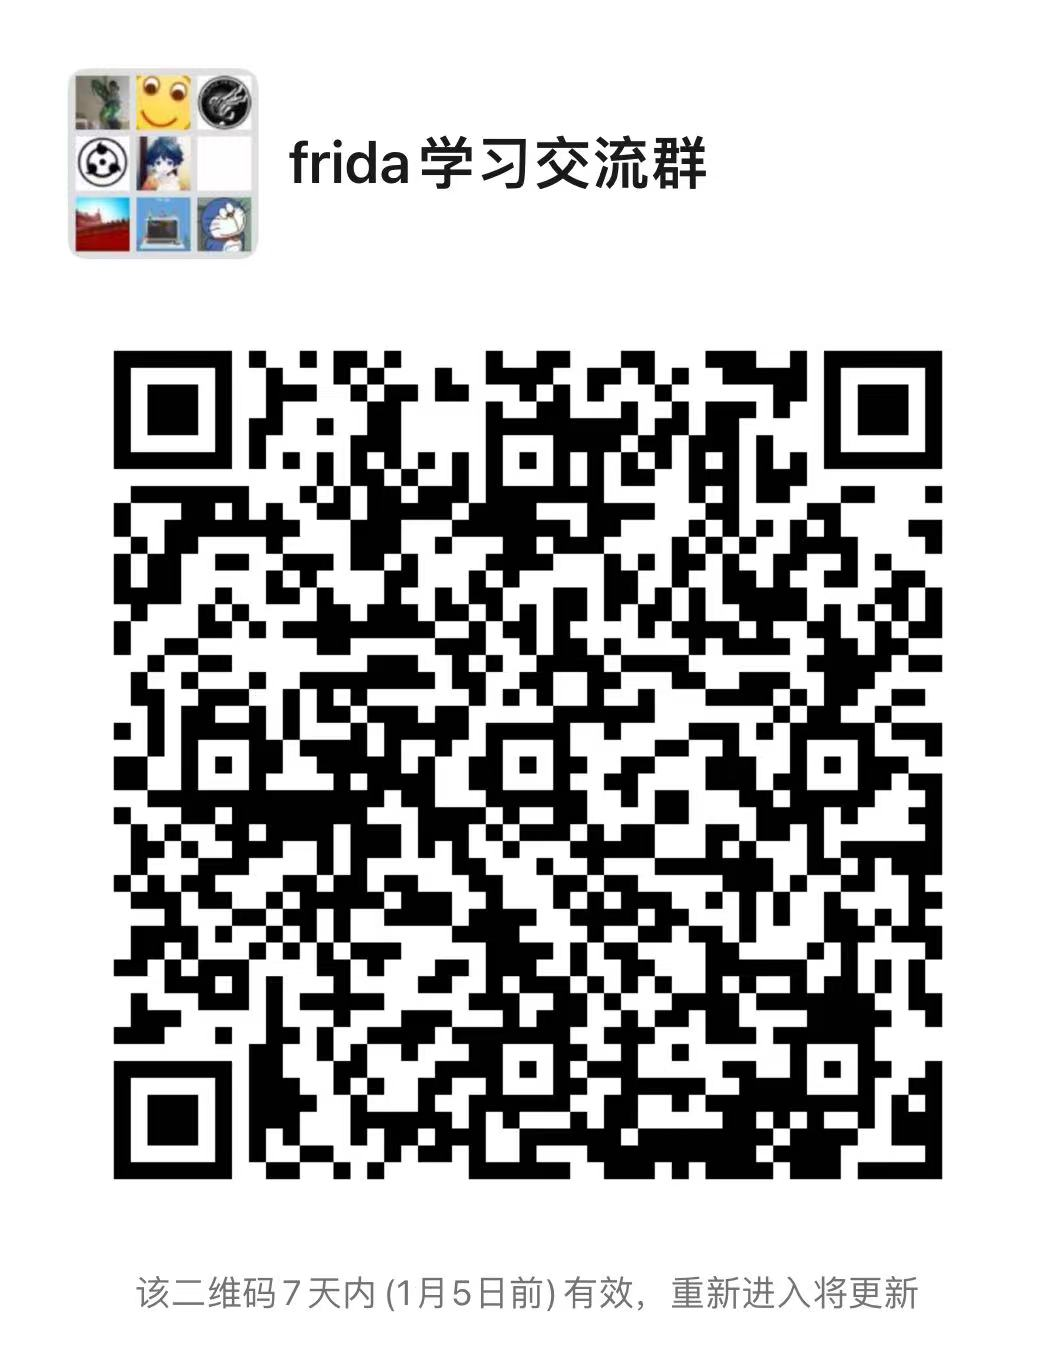
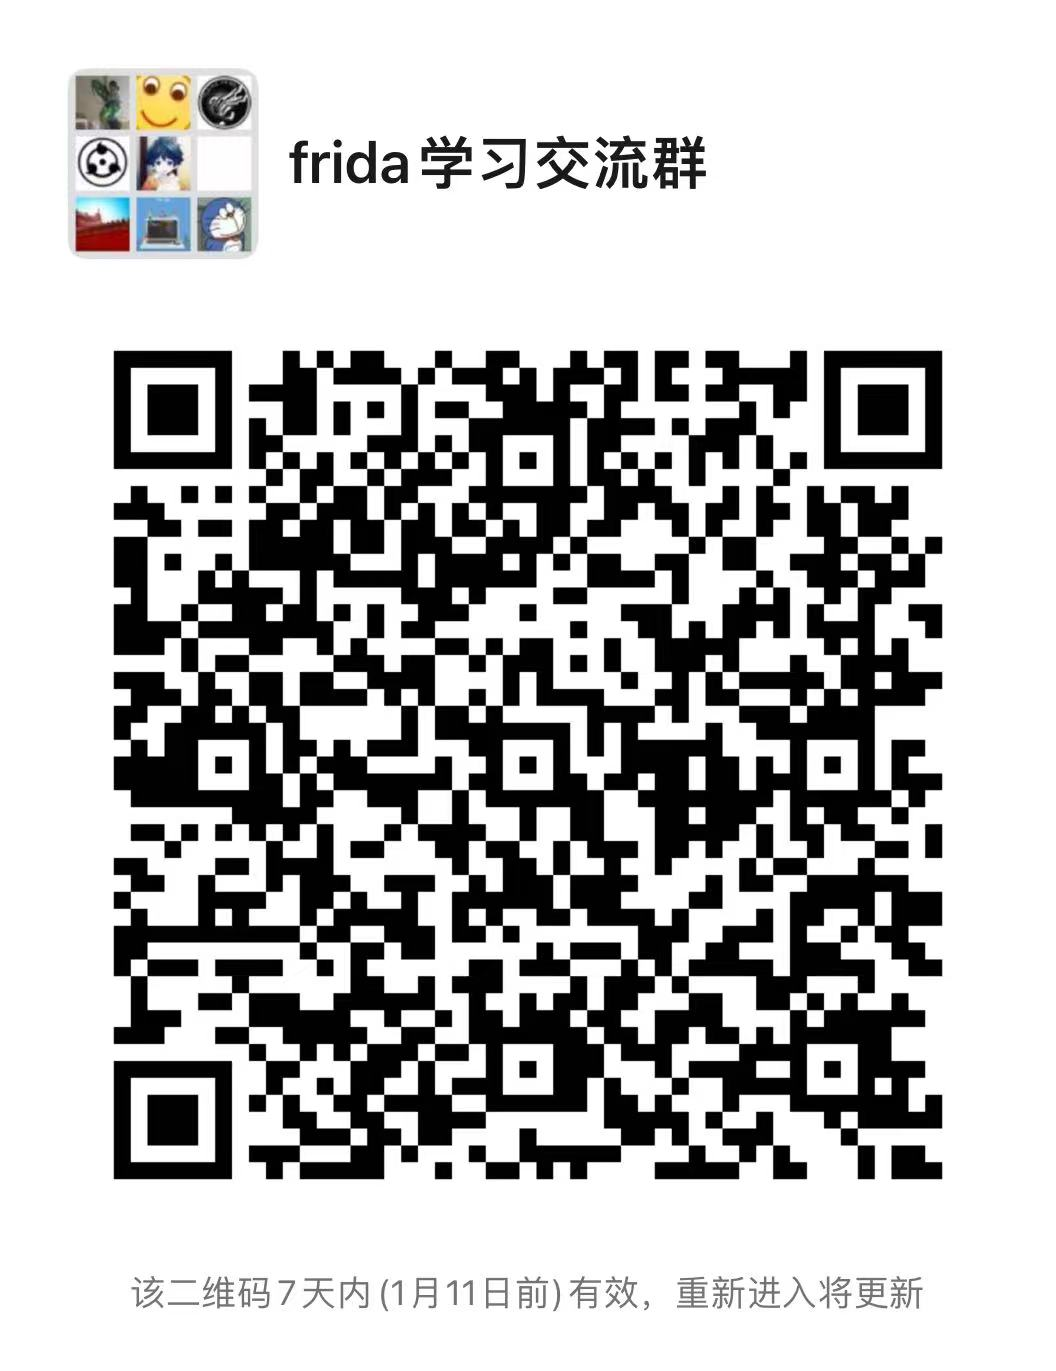
更新二维码图片和补提交js脚本

diff --git a/js/anti_frida.js b/js/anti_frida.js
@@ -1,0 +1,184 @@
+//整理的过frida检测
+(function(){
+
+function klog(data){
+    var message={};
+    message["jsname"]="anti_frida";
+    message["data"]=data;
+    send(message);
+    // console.log(data);
+}
+function klogData(data,key,value){
+    var message={};
+    message["jsname"]="anti_frida";
+    message["data"]=data;
+    message[key]=value;
+    send(message);
+    // console.log(data);
+}
+
+
+
+
+function fridaCheckPass() {
+    var pfn_strstr = Module.findExportByName("libc.so", "strstr");
+    console.log("hook strstr");
+
+    var keywords=check_str.split(";");
+    var pfn_pthread_exit = Module.findExportByName(null, "pthread_exit");
+    var pthread_exit_func=new NativeFunction(pfn_pthread_exit,"void",["int"]);
+    Interceptor.attach(pfn_strstr, {
+        onEnter: function (args) {
+            this.str1 = Memory.readCString(args[0]);
+            this.str2 = Memory.readCString(args[1]);
+            for(var i=0;i<keywords.length;i++){
+                if(this.str2.indexOf(keywords[i])!=-1){
+                    // klog("strstr keyword:"+keywords[i]);
+                    // klog("enter strstr replace str1:"+this.str1+" - " +"str2:"+ this.str2+" thread_id:"+Process.getCurrentThreadId());
+                    this.hook = true;
+                    if(isExitThread){
+                        klog("pthread_exit_func");
+                        pthread_exit_func(0);
+                    }
+                    break;
+                }
+            }
+        },
+        onLeave: function (retval) {
+            // if(retval!=0){
+            //     console.log("leave str1:",this.str1," - " , "str2:", this.str2," retval:",retval," thread_id:",Process.getCurrentThreadId());
+            // }
+            if (this.hook) {
+                retval.replace(0);
+            }
+        }
+    });
+}
+
+
+function hooklibc() {
+    klog("hook readlink");
+    Interceptor.attach(Module.findExportByName(null, "readlink"), {
+            onEnter: function (args) {
+                // console.log("enter readlink");
+                this.pathname = args[0];
+                this.buf = args[1];
+                this.bufsize = args[2];
+            }, onLeave: function (retval) {
+                var s2str = this.buf.readCString();
+                if (s2str.indexOf("/data/local/tmp/re.frida.server/linjector") != -1) {
+                    this.buf.writeUtf8String("/system/framework/boot.art");
+                    retval.replace(0x1A);
+                    klog("readlink ",s2str);
+                }
+                //console.log('\nreadlink(' + 's1="' + this.aaa.readCString() + '"' + ', s2="' + this.bbb.readCString() + '"' + ', s3="' + this.ccc + '"' + ')');
+            }
+        }
+    );
+    klog("hook readlinkat");
+    Interceptor.attach(Module.findExportByName(null, "readlinkat"), {
+            onEnter: function (args) {
+                // console.log("enter readlinkat");
+                this.pathname = args[1];
+                this.buf = args[2];
+                this.bufsize = args[3];
+            }, onLeave: function (retval) {
+                var s2str = this.buf.readCString();
+                if (s2str.indexOf("/data/local/tmp/re.frida.server/linjector") != -1) {
+                    this.buf.writeUtf8String("/system/framework/boot.art");
+                    retval.replace(0x1A);
+                    klog("readlinkat "+s2str);
+                }
+                //console.log('\nreadlink(' + 's1="' + this.aaa.readCString() + '"' + ', s2="' + this.bbb.readCString() + '"' + ', s3="' + this.ccc + '"' + ')');
+            }
+        }
+    );
+
+    klog("hook open");
+    const openPtr = Module.getExportByName('libc.so', 'open');
+    const open = new NativeFunction(openPtr, 'int', ['pointer', 'int']);
+    var fakePath = "/data/local/tmp/maps";
+    Interceptor.replace(openPtr, new NativeCallback(function (pathnameptr, flag) {
+      var pathname = Memory.readUtf8String(pathnameptr);
+      if (pathname.indexOf("maps") >= 0 && pathname.indexOf("proc")>=0) {
+          klog("replace maps "+pathname);
+          var filename = Memory.allocUtf8String(fakePath);
+          klog("replace maps over");
+          return open(filename, flag);
+      }
+      if (pathname.indexOf("/su") != -1) {
+          klog("replace su");
+          var filename = Memory.allocUtf8String("/xxx/su");
+          return open(filename, flag);
+      }
+      var fd = open(pathnameptr, flag);
+      return fd;
+    }, 'int', ['pointer', 'int']));
+
+    klog("hook openat");
+    const openatPtr = Module.getExportByName('libc.so', 'openat');
+    const openat = new NativeFunction(openatPtr, 'int', ['int','pointer', 'int','int']);
+    Interceptor.replace(openatPtr, new NativeCallback(function (fd,pathnameptr, flag,mode) {
+      var pathname = Memory.readUtf8String(pathnameptr);
+      if (pathname.indexOf("maps") >= 0) {
+          var filename = Memory.allocUtf8String(fakePath);
+          klog("replace maps");
+          return openat(fd,filename, flag,mode);
+      }
+      if (pathname.indexOf("/su") != -1) {
+          var filename = Memory.allocUtf8String("/xxx/su");
+          return openat(fd,filename, flag,mode);
+      }
+      var fd = openat(fd,pathnameptr, flag,mode);
+      return fd;
+    }, 'int', ['int','pointer', 'int','int']));
+
+}
+
+function readFile(fileName){
+    klog("> Reading file: "+fileName);
+    var JString = Java.use("java.lang.String");
+    var Files = Java.use("java.nio.file.Files");
+    var Paths = Java.use("java.nio.file.Paths");
+    var URI = Java.use("java.net.URI");
+
+    var pathName = "file://" + fileName;
+    var path = Paths.get(URI.create(pathName));
+    var fileBytes = Files.readAllBytes(path);
+    var ret = JString.$new(fileBytes);
+    return ret;
+}
+
+function replaceMaps(){
+    var data= readFile("/proc/self/maps");
+    var saveFile=new File("/data/local/tmp/maps","w");
+    data.split("\n").forEach(function(line){
+        if(line.indexOf("tmp")===-1){
+            saveFile.write(line+"\n");
+        }
+    });
+    saveFile.close();
+}
+
+
+
+var antiType="%antiType%";
+// 方案1使用的参数
+var check_str = "%Keyword%";
+var isExitThread="%isExitThread%";
+
+// 方案2使用的参数
+
+klogData("","init","anti_frida.js init hook success")
+if(antiType.indexOf("strstr")!=-1){
+    fridaCheckPass();
+}
+if (antiType.indexOf("libc")!=-1){
+    replaceMaps();
+    hooklibc();
+}
+if (antiType.indexOf("svc")!=-1){
+
+}
+
+})();
